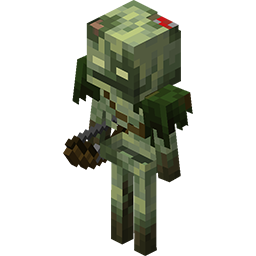
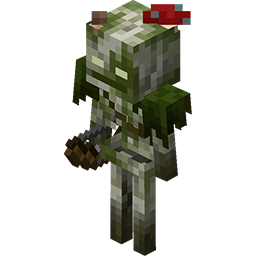
added goals: - dont get any effect - dont get effect - shear bogged - brew potion

Changed region(s): [[0.2812, 0.0, 0.75, 1.0], [0.25, 0.5, 0.3438, 0.625], [0.2812, 0.625, 0.3125, 0.6562]]

diff --git a/src/main/java/net/abrikoos/lockout_bingo/goals/GoalItemRegistry.java b/src/main/java/net/abrikoos/lockout_bingo/goals/GoalItemRegistry.java
@@ -1,12 +1,10 @@
 package net.abrikoos.lockout_bingo.goals;
 
-import net.minecraft.entity.ai.goal.Goal;
+import net.abrikoos.lockout_bingo.LockoutLogger;
 import net.minecraft.util.Identifier;
 
 import java.util.ArrayList;
 import java.util.List;
-
-import net.abrikoos.lockout_bingo.goals.LockoutGoalTag;
 
 import static net.abrikoos.lockout_bingo.goals.LockoutGoalTag.*;
 
@@ -20,6 +18,7 @@ public class GoalItemRegistry {
 
         items.add(new GoalListItem("Opponent obtains crafting table", "An enemy obtains a crafting table", 1, List.of(dont), "no_crafting_table", List.of(Identifier.of("lockout-bingo:goalicon/block/crafting_table.png"))));
         items.add(new GoalListItem("Opponent obtains obsidian", "opponent obtains obsidian", 1, List.of(dont), "no_obsidian", List.of(Identifier.of("lockout-bingo:goalicon/block/obsidian.png"))));
+        items.add(new GoalListItem("Opponent obtains netherrack", "opponent obtains netherrack", 1, List.of(dont), "no_netherrack", List.of(Identifier.of("lockout-bingo:goalicon/block/netherrack.png"))));
         items.add(new GoalListItem("obtain end crystal", "", 3, List.of(nether), "obtain_end_crystal", List.of(Identifier.of("minecraft:textures/item/end_crystal.png"))));
         items.add(new GoalListItem("obtain bell", "", 1, List.of(), "obtain_bell", List.of(Identifier.of("lockout-bingo:goalicon/block/bell.png"))));
         items.add(new GoalListItem("obtain a bottle o enchanting", "obtain bottle o enchanting", 1, List.of(), "obtain_bottle_o_enchanting", List.of(Identifier.of("lockout-bingo:goalicon/item/bottle_o_enchanting.png"))));
@@ -35,7 +34,8 @@ public class GoalItemRegistry {
         items.add(new GoalListItem("obtain crying obsidian", "", 1, List.of(), "obtain_crying_obsidian", List.of(Identifier.of("lockout-bingo:goalicon/block/crying_obsidian.png"))));
         items.add(new GoalListItem("obtain mushroom stem", "", 1, List.of(silk_touch), "obtain_mushroom_stem", List.of(Identifier.of("lockout-bingo:goalicon/block/mushroom_stem.png"))));
         items.add(new GoalListItem("obtain a bubble coral block", "", 1, List.of(silk_touch), "obtain_coral_block", List.of(Identifier.of("lockout-bingo:goalicon/block/bubble_coral_block.png"))));
-//        items.add(new GoalListItem("obtain dragons breath", "", 1, List.of(), "obtain_dragons_breath", List.of(Identifier.of("minecraft:textures/item/dragons_breath.png"))));
+        items.add(new GoalListItem("obtain a heart of the sea", "", 1, List.of(), "obtain_heart_sea", List.of(Identifier.of("lockout-bingo:goalicon/item/heart_of_the_sea.png"))));
+        //        items.add(new GoalListItem("obtain dragons breath", "", 1, List.of(), "obtain_dragons_breath", List.of(Identifier.of("minecraft:textures/item/dragons_breath.png"))));
         items.add(new GoalListItem("obtain TNT", "", 1, List.of(), "obtain_tnt", List.of(Identifier.of("lockout-bingo:goalicon/block/tnt.png"))));
         items.add(new GoalListItem("obtain mud brick wall", "", 1, List.of(), "obtain_mud_brick_wall", List.of(Identifier.of("lockout-bingo:goalicon/block/mud_brick_wall.png"))));
         items.add(new GoalListItem("obtain a calibrated sculk sensor", "", 1, List.of(), "obtain_calibrated_sculk_sensor", List.of(Identifier.of("lockout-bingo:goalicon/block/calibrated_sculk_sensor.png"))));
@@ -43,6 +43,7 @@ public class GoalItemRegistry {
         items.add(new GoalListItem("obtain a cobweb", "", 1, List.of(), "obtain_cobweb", List.of(Identifier.of("minecraft:textures/block/cobweb.png"))));
         items.add(new GoalListItem("obtain goat horn", "", 1, List.of(), "obtain_goat_horn", List.of(Identifier.of("minecraft:textures/item/goat_horn.png"))));
         items.add(new GoalListItem("obtain a nautilus shell", "", 1, List.of(), "obtain_nautilus_shell", List.of(Identifier.of("minecraft:textures/item/nautilus_shell.png"))));
+        items.add(new GoalListItem("obtain exposed cut copper stairs", "", 1, List.of(), "obtain_exposed_copper_stairs", List.of(Identifier.of("lockout-bingo:goalicon/block/exposed_cut_copper_stairs.png"))));
         items.add(new GoalListItem("obtain a copper bulb", "", 1, List.of(), "obtain_copper_bulb", List.of(Identifier.of("lockout-bingo:goalicon/block/lit_copper_bulb.png"))));
         items.add(new GoalListItem("obtain a daylight detector", "", 1, List.of(), "obtain_daylight_detector", List.of(Identifier.of("lockout-bingo:goalicon/block/daylight_detector.png"))));
         items.add(new GoalListItem("obtain a redstone repeater", "", 1, List.of(), "obtain_repeater", List.of(Identifier.of("lockout-bingo:goalicon/block/repeater.png"))));
@@ -59,7 +60,11 @@ public class GoalItemRegistry {
         items.add(new GoalListItem("obtain a full set of iron tools", "", 1, List.of(tools), "obtain_iron_toolset", List.of(Identifier.of("minecraft:textures/item/iron_hoe.png"), Identifier.of("minecraft:textures/item/iron_hoe.png"), Identifier.of("minecraft:textures/item/iron_pickaxe.png"), Identifier.of("minecraft:textures/item/iron_shovel.png"), Identifier.of("minecraft:textures/item/iron_sword.png"))));
         items.add(new GoalListItem("obtain a full set of golden tools", "", 1, List.of(tools), "obtain_golden_toolset", List.of(Identifier.of("minecraft:textures/item/golden_hoe.png"), Identifier.of("minecraft:textures/item/golden_hoe.png"), Identifier.of("minecraft:textures/item/golden_pickaxe.png"), Identifier.of("minecraft:textures/item/golden_shovel.png"), Identifier.of("minecraft:textures/item/golden_sword.png"))));
         items.add(new GoalListItem("obtain a full set of diamond tools", "", 1, List.of(tools), "obtain_diamond_toolset", List.of(Identifier.of("minecraft:textures/item/diamond_hoe.png"), Identifier.of("minecraft:textures/item/diamond_hoe.png"), Identifier.of("minecraft:textures/item/diamond_pickaxe.png"), Identifier.of("minecraft:textures/item/diamond_shovel.png"), Identifier.of("minecraft:textures/item/diamond_sword.png"))));
+        items.add(new GoalListItem("obtain a clock", "", 1, List.of(), "obtain_clock", List.of(Identifier.of("lockout-bingo:goalicon/item/clock.png"))));
 //        items.add(new GoalListItem("obtain a full set of netherite tools", "", 1, List.of(tools), "obtain_netherite_toolset", List.of(Identifier.of("minecraft:textures/item/netherite_hoe.png"), Identifier.of("minecraft:textures/item/netherite_hoe.png"), Identifier.of("minecraft:textures/item/netherite_pickaxe.png"), Identifier.of("minecraft:textures/item/netherite_shovel.png"), Identifier.of("minecraft:textures/item/netherite_sword.png"))));
+
+        // armor goals
+        items.add(new GoalListItem("obtain a piece of chainmail armor", "", 1, List.of(armor), "obtain_chainmail", List.of(Identifier.of("minecraft:textures/item/chainmail_helmet.png"), Identifier.of("minecraft:textures/item/chainmail_chestplate.png"), Identifier.of("minecraft:textures/item/chainmail_leggings.png"), Identifier.of("minecraft:textures/item/chainmail_boots.png"))));
 
         items.add(new GoalListItem("obtain 4 types of seeds", "", 1, List.of(C4), "obtain_all_seeds", List.of(Identifier.of("minecraft:textures/item/wheat_seeds.png"), Identifier.of("minecraft:textures/item/beetroot_seeds.png"), Identifier.of("minecraft:textures/item/melon_seeds.png"), Identifier.of("minecraft:textures/item/pumpkin_seeds.png"), Identifier.of("minecraft:textures/item/torchflower_seeds.png"))));
         items.add(new GoalListItem("obtain 6 types of flowers", "", 1, List.of(C6), "obtain_6_flowers", List.of(Identifier.of("minecraft:textures/block/poppy.png"), Identifier.of("minecraft:textures/block/dandelion.png"), Identifier.of("minecraft:textures/block/blue_orchid.png"), Identifier.of("minecraft:textures/block/allium.png"), Identifier.of("minecraft:textures/block/azure_bluet.png"), Identifier.of("minecraft:textures/block/red_tulip.png"), Identifier.of("minecraft:textures/block/orange_tulip.png"), Identifier.of("minecraft:textures/block/white_tulip.png"), Identifier.of("minecraft:textures/block/pink_tulip.png"), Identifier.of("minecraft:textures/block/oxeye_daisy.png"), Identifier.of("minecraft:textures/block/cornflower.png"), Identifier.of("minecraft:textures/block/lily_of_the_valley.png"), Identifier.of("minecraft:textures/block/wither_rose.png"))));
@@ -67,7 +72,6 @@ public class GoalItemRegistry {
         items.add(new GoalListItem("obtain all saplings", "", 1, List.of(), "obtain_all_saplings", List.of(Identifier.of("minecraft:textures/block/oak_sapling.png"), Identifier.of("minecraft:textures/block/spruce_sapling.png"), Identifier.of("minecraft:textures/block/birch_sapling.png"), Identifier.of("minecraft:textures/block/jungle_sapling.png"), Identifier.of("minecraft:textures/block/acacia_sapling.png"), Identifier.of("minecraft:textures/block/dark_oak_sapling.png"))));
         items.add(new GoalListItem("obtain 2 music disks", "", 1, List.of(C2), "obtain_2_music_disks", List.of(Identifier.of("minecraft:textures/item/music_disc_11.png"), Identifier.of("minecraft:textures/item/music_disc_13.png"), Identifier.of("minecraft:textures/item/music_disc_blocks.png"), Identifier.of("minecraft:textures/item/music_disc_cat.png"), Identifier.of("minecraft:textures/item/music_disc_chirp.png"), Identifier.of("minecraft:textures/item/music_disc_far.png"), Identifier.of("minecraft:textures/item/music_disc_mall.png"), Identifier.of("minecraft:textures/item/music_disc_mellohi.png"), Identifier.of("minecraft:textures/item/music_disc_stal.png"), Identifier.of("minecraft:textures/item/music_disc_strad.png"), Identifier.of("minecraft:textures/item/music_disc_wait.png"), Identifier.of("minecraft:textures/item/music_disc_ward.png"))));
         items.add(new GoalListItem("obtain all types of horse armor", "", 1, List.of(), "obtain_all_harmor", List.of(Identifier.of("minecraft:textures/item/iron_horse_armor.png"), Identifier.of("minecraft:textures/item/golden_horse_armor.png"), Identifier.of("minecraft:textures/item/diamond_horse_armor.png"))));
-
 
         items.add(new GoalListItem("eat 5 unique foods", "", 1, List.of(C5, eat), "eat_5", List.of(Identifier.of("minecraft:textures/item/apple.png"))));
         items.add(new GoalListItem("eat 10 unique foods", "", 1, List.of(C10, eat), "eat_10", List.of(Identifier.of("minecraft:textures/item/apple.png"))));
@@ -119,6 +123,10 @@ public class GoalItemRegistry {
         items.add(new GoalListItem("kill 10 unique mobs", "", 1, List.of(kill, C10), "kill_10", List.of(Identifier.of("lockout-bingo:goalicon/entity/zombie.png"))));
         items.add(new GoalListItem("kill 15 unique mobs", "", 1, List.of(kill, C15), "kill_15", List.of(Identifier.of("lockout-bingo:goalicon/entity/zombie.png"))));
         items.add(new GoalListItem("kill jeb_", "", 1, List.of(kill), "kill_jeb_", List.of(Identifier.of("lockout-bingo:goalicon/entity/jeb.png"))));
+
+        //use entity goals
+        items.add(new GoalListItem("shear a bogged", "", 1, List.of(), "shear_bogged", List.of(Identifier.of("lockout-bingo:goalicon/entity/bogged.png"))));
+
 
         items.add(new GoalListItem("enter the nether", "", 1, List.of(advancement), "nether_adv", List.of(Identifier.of("minecraft:textures/block/nether_portal.png"))));
         items.add(new GoalListItem("enter the end", "", 1, List.of(advancement), "end_adv", List.of(Identifier.of("lockout-bingo:goalicon/block/end_portal_frame.png"))));
@@ -208,6 +216,8 @@ public class GoalItemRegistry {
         items.add(new GoalListItem("get glowing", "", 1, List.of(effect), "effect_glowing", List.of(Identifier.of("lockout-bingo:goalicon/effect/glowing.png"))));
         items.add(new GoalListItem("have 3 active effects at once", "", 1, List.of(effect, C3), "effect_3", List.of(Identifier.of("minecraft:textures/item/milk_bucket.png"))));
         items.add(new GoalListItem("have 6 active effects at once", "", 1, List.of(effect, C6), "effect_6", List.of(Identifier.of("minecraft:textures/item/milk_bucket.png"))));
+        items.add(new GoalListItem("dont get any effects", "", 1, List.of(effect, dont), "dont_effect", List.of(Identifier.of("minecraft:textures/item/milk_bucket.png"))));
+        items.add(new GoalListItem("dont get glowing", "", 1, List.of(effect, dont), "dont_glowing", List.of(Identifier.of("lockout-bingo:goalicon/effect/glowing.png"))));
 
         items.add(new GoalListItem("break 5 pickaxes", "", 1, List.of(C5, broken), "break_5_pickaxes", List.of(Identifier.of("minecraft:textures/item/wooden_pickaxe.png"))));
         items.add(new GoalListItem("get them in a bucket !!", "", 5, List.of(), "get_them_in_a_bucket", List.of(Identifier.of("minecraft:textures/item/pufferfish_bucket.png"))));
@@ -230,6 +240,17 @@ public class GoalItemRegistry {
 
         items.add(new GoalListItem("duplicate a smithing template", "", 1, List.of(C2), "duplicate_smithing_template", List.of(Identifier.of("lockout-bingo:goalicon/item/smithing_templates/silence_template.png")))); // todo nog bij voegen
 
+        items.add(new GoalListItem("sprint 1 km", "", 1, List.of(km1), "sprint_1km", List.of(Identifier.of("lockout-bingo:goalicon/effect/haste.png"))));
+        items.add(new GoalListItem("swim 1 km", "", 1, List.of(km1), "swim_1km", List.of(Identifier.of("lockout-bingo:goalicon/effect/dolphins_grace.png"))));
+
+        // brew goals
+        items.add(new GoalListItem("brew a potion of invisibility", "", 1, List.of(brew), "brew_invis", List.of(Identifier.of("lockout-bingo:goalicon/item/potions/invis.png"))));
+        items.add(new GoalListItem("brew a potion of regeneration", "", 1, List.of(brew), "brew_regen", List.of(Identifier.of("lockout-bingo:goalicon/item/potions/regen.png"))));
+        items.add(new GoalListItem("brew a potion of oozing", "", 1, List.of(brew), "brew_oozing", List.of(Identifier.of("lockout-bingo:goalicon/item/potions/oozing.png"))));
+        items.add(new GoalListItem("brew a potion of weaving", "", 1, List.of(brew), "brew_weaving", List.of(Identifier.of("lockout-bingo:goalicon/item/potions/weaving.png"))));
+        items.add(new GoalListItem("brew a potion of leaping", "", 1, List.of(brew), "brew_leaping", List.of(Identifier.of("lockout-bingo:goalicon/item/potions/leaping.png"))));
+
+        LockoutLogger.log("Registered " + items.size() + " goals");
     }
 
     public static GoalItemRegistry getInstance() {

diff --git a/src/main/java/net/abrikoos/lockout_bingo/goals/GoalFactory.java b/src/main/java/net/abrikoos/lockout_bingo/goals/GoalFactory.java
@@ -4,12 +4,15 @@ import net.abrikoos.lockout_bingo.goals.advancement.GetAdvancementGoal;
 import net.abrikoos.lockout_bingo.goals.advancement.MultiAdvancementGoal;
 import net.abrikoos.lockout_bingo.goals.breed.BreedAnimalGoal;
 import net.abrikoos.lockout_bingo.goals.breed.BreedMultiAnimalsGoal;
+import net.abrikoos.lockout_bingo.goals.brew.BrewPotionGoal;
 import net.abrikoos.lockout_bingo.goals.craft.DuplicateTemplateGoal;
 import net.abrikoos.lockout_bingo.goals.damage.DealDamageGoal;
 import net.abrikoos.lockout_bingo.goals.die.DieFromEntityGoal;
 import net.abrikoos.lockout_bingo.goals.die.DieFromWeaponGoal;
 import net.abrikoos.lockout_bingo.goals.eat.EatFoodGoal;
 import net.abrikoos.lockout_bingo.goals.eat.EatMultiFoodGoal;
+import net.abrikoos.lockout_bingo.goals.effect.DontGetAnyEffects;
+import net.abrikoos.lockout_bingo.goals.effect.DontGetEffectGoal;
 import net.abrikoos.lockout_bingo.goals.effect.GetEffectGoal;
 import net.abrikoos.lockout_bingo.goals.effect.GetMultiEffectGoal;
 import net.abrikoos.lockout_bingo.goals.kill.KillHostileEntityGoal;
@@ -18,6 +21,8 @@ import net.abrikoos.lockout_bingo.goals.kill.MultiKillHostilesGoal;
 import net.abrikoos.lockout_bingo.goals.lvl.ReachLvlGoal;
 import net.abrikoos.lockout_bingo.goals.mine.MineDiamondOre;
 import net.abrikoos.lockout_bingo.goals.mine.MineEmeraldOre;
+import net.abrikoos.lockout_bingo.goals.movement.SprintGoal;
+import net.abrikoos.lockout_bingo.goals.movement.SwimGoal;
 import net.abrikoos.lockout_bingo.goals.obtain.*;
 import net.abrikoos.lockout_bingo.goals.position.FallGoal;
 import net.abrikoos.lockout_bingo.goals.position.ReachBedrockGoal;
@@ -25,21 +30,15 @@ import net.abrikoos.lockout_bingo.goals.position.ReachSkyLimitGoal;
 import net.abrikoos.lockout_bingo.goals.ride.RideHorseGoal;
 import net.abrikoos.lockout_bingo.goals.ride.RidePigGoal;
 import net.abrikoos.lockout_bingo.goals.tools.BreakXPickaxes;
-import net.abrikoos.lockout_bingo.goals.useblock.UseBlockGoal;
-import net.minecraft.block.Blocks;
-import net.minecraft.client.MinecraftClient;
-import net.minecraft.client.texture.TextureManager;
+import net.abrikoos.lockout_bingo.goals.use.UseBlockGoal;
 
+import net.abrikoos.lockout_bingo.goals.use.UseEntityGoal;
 import net.minecraft.entity.EntityType;
-import net.minecraft.entity.damage.DamageType;
 import net.minecraft.entity.damage.DamageTypes;
 import net.minecraft.entity.effect.StatusEffects;
 import net.minecraft.item.Items;
-import net.minecraft.registry.Registries;
-import net.minecraft.screen.LoomScreenHandler;
+import net.minecraft.potion.Potions;
 import net.minecraft.screen.ScreenHandlerType;
-import net.minecraft.screen.SmithingScreenHandler;
-import net.minecraft.server.MinecraftServer;
 import net.minecraft.util.Identifier;
 
 import java.util.List;
@@ -53,6 +52,7 @@ public class GoalFactory {
             // dont obtain
             case "no_crafting_table" -> new DontObtainItemGoal(id, Items.CRAFTING_TABLE);
             case "no_obsidian" -> new DontObtainItemGoal(id, Items.OBSIDIAN);
+            case "no_netherrack" -> new DontObtainItemGoal(id, Items.NETHERRACK);
 
             // obtain goals
             case "obtain_end_crystal" -> new ObtainItemGoal(id, Items.END_CRYSTAL);
@@ -76,8 +76,10 @@ public class GoalFactory {
             case "obtain_blue_ice" -> new ObtainItemGoal(id, Items.BLUE_ICE);
             case "obtain_cobweb" -> new ObtainItemGoal(id, Items.COBWEB);
             case "obtain_goat_horn" -> new ObtainItemGoal(id, Items.GOAT_HORN);
+            case "obtain_heart_sea" -> new ObtainItemGoal(id, Items.HEART_OF_THE_SEA);
             case "obtain_calibrated_sculk_sensor" -> new ObtainItemGoal(id, Items.CALIBRATED_SCULK_SENSOR);
             case "obtain_nautilus_shell" -> new ObtainItemGoal(id, Items.NAUTILUS_SHELL);
+            case "obtain_exposed_copper_stairs" -> new ObtainItemGoal(id, Items.EXPOSED_CUT_COPPER_STAIRS);
             case "obtain_copper_bulb" -> new ObtainItemGoal(id, Items.COPPER_BULB);
             case "obtain_daylight_detector" -> new ObtainItemGoal(id, Items.DAYLIGHT_DETECTOR);
             case "obtain_repeater" -> new ObtainItemGoal(id, Items.REPEATER);
@@ -88,8 +90,9 @@ public class GoalFactory {
             case "obtain_activator_rail" -> new ObtainItemGoal(id, Items.ACTIVATOR_RAIL);
             case "obtain_detector_rail" -> new ObtainItemGoal(id, Items.DETECTOR_RAIL);
             case "obtain_powered_rail" -> new ObtainItemGoal(id, Items.POWERED_RAIL);
+            case "obtain_clock" -> new ObtainItemGoal(id, Items.CLOCK);
 
-            // obtain toolset goals
+            // tool goals
             case "obtain_wooden_toolset" -> new ObtainToolSetGoal(id, "wooden");
             case "obtain_stone_toolset" -> new ObtainToolSetGoal(id, "stone");
             case "obtain_iron_toolset" -> new ObtainToolSetGoal(id, "iron");
@@ -97,6 +100,10 @@ public class GoalFactory {
             case "obtain_diamond_toolset" -> new ObtainToolSetGoal(id, "diamond");
             case "obtain_netherite_toolset" -> new ObtainToolSetGoal(id, "netherite"); // too hard
 
+
+
+            // armor goals
+            case "obtain_chainmail" -> new ObtainXofSetItemsGoal(id, List.of(Items.CHAINMAIL_HELMET, Items.CHAINMAIL_CHESTPLATE, Items.CHAINMAIL_LEGGINGS, Items.CHAINMAIL_BOOTS), 1);
 
             case "obtain_all_seeds" -> new ObtainEverySeedGoal(id);
             case "obtain_6_flowers" -> new ObtainXFlowers(id, 6);
@@ -158,6 +165,9 @@ public class GoalFactory {
             case "kill_10" -> new MultiKillHostilesGoal(id, 10);
             case "kill_15" -> new MultiKillHostilesGoal(id, 15);
             case "kill_jeb_" -> new KillJeb(id);
+
+            // use entity goals
+            case "shear_bogged" -> new UseEntityGoal(id, EntityType.BOGGED, Items.SHEARS);
 
             // advancement goals
             case "nether_adv" -> new GetAdvancementGoal(id, Identifier.of("minecraft", "nether/root"));
@@ -249,6 +259,8 @@ public class GoalFactory {
             case "effect_glowing" -> new GetEffectGoal(id, StatusEffects.GLOWING);
             case "effect_3" -> new GetMultiEffectGoal(id, 3);
             case "effect_6" -> new GetMultiEffectGoal(id, 6);
+            case "dont_effect" -> new DontGetAnyEffects(id);
+            case "dont_glowing" -> new DontGetEffectGoal(id, StatusEffects.GLOWING);
 
             case "get_them_in_a_bucket" -> new ObtainXofSetItemsGoal(id, List.of(Items.COD_BUCKET, Items.SALMON_BUCKET, Items.PUFFERFISH_BUCKET, Items.TROPICAL_FISH_BUCKET, Items.AXOLOTL_BUCKET, Items.TADPOLE_BUCKET), 6);
 
@@ -267,6 +279,16 @@ public class GoalFactory {
             case "64_cyan_wool" -> new ObtainMultiCountItemGoal(id, Items.CYAN_WOOL, 64);
 
             case "duplicate_smithing_template" -> new DuplicateTemplateGoal(id);
+
+            case "sprint_1km" -> new SprintGoal(id, 100000);
+            case "swim_1km" -> new SwimGoal(id, 100000);
+
+            // brew goals
+            case "brew_regen" -> new BrewPotionGoal(id, Potions.REGENERATION);
+            case "brew_weaving" -> new BrewPotionGoal(id, Potions.WEAVING);
+            case "brew_oozing" -> new BrewPotionGoal(id, Potions.OOZING);
+            case "brew_invis" -> new BrewPotionGoal(id, Potions.INVISIBILITY);
+            case "brew_leaping" -> new BrewPotionGoal(id, Potions.LEAPING);
 
             default ->
 

diff --git a/src/main/java/net/abrikoos/lockout_bingo/goals/brew/BrewPotionGoal.java b/src/main/java/net/abrikoos/lockout_bingo/goals/brew/BrewPotionGoal.java
@@ -1,4 +1,42 @@
 package net.abrikoos.lockout_bingo.goals.brew;
 
-public class BrewPotionGoal {
+import net.abrikoos.lockout_bingo.LockoutLogger;
+import net.abrikoos.lockout_bingo.goals.LockoutGoal;
+import net.abrikoos.lockout_bingo.listeners.ScreenSlotClickListener;
+import net.minecraft.entity.player.PlayerEntity;
+import net.minecraft.item.ItemStack;
+import net.minecraft.item.PotionItem;
+import net.minecraft.potion.Potion;
+import net.minecraft.registry.Registries;
+import net.minecraft.registry.entry.RegistryEntry;
+import net.minecraft.screen.ScreenHandlerType;
+import net.minecraft.screen.slot.Slot;
+import net.minecraft.screen.slot.SlotActionType;
+
+// todo not working
+public class BrewPotionGoal extends LockoutGoal {
+
+    RegistryEntry<Potion> potion;
+
+    public BrewPotionGoal(int id, RegistryEntry<Potion> potion) {
+        super(id);
+        this.potion = potion;
+        ScreenSlotClickListener.subscribe(this::validateProgress);
+    }
+
+    private void validateProgress(int slotIndex, int button, SlotActionType actionType, PlayerEntity player, ScreenHandlerType<?> type, Slot slot) {
+        if (completed != null) { return; }
+        if (type == ScreenHandlerType.BREWING_STAND && actionType == SlotActionType.PICKUP) {
+            if (slotIndex == 0 || slotIndex == 1 || slotIndex == 2) {
+                PotionItem potionItem = (PotionItem) slot.getStack().getItem();
+                String[] x = potionItem.getTranslationKey(slot.getStack()).split("\\.");
+                String[] y = this.potion.getIdAsString().split(":");
+                if (y[1].equals(x[x.length - 1])) {
+                    this.completed(player);
+                }
+            }
+        }
+    }
+
+
 }

diff --git a/src/main/java/net/abrikoos/lockout_bingo/goals/use/UseEntityGoal.java b/src/main/java/net/abrikoos/lockout_bingo/goals/use/UseEntityGoal.java
@@ -1,0 +1,37 @@
+package net.abrikoos.lockout_bingo.goals.use;
+
+import net.abrikoos.lockout_bingo.goals.LockoutGoal;
+import net.fabricmc.fabric.api.event.player.UseEntityCallback;
+import net.minecraft.entity.Entity;
+import net.minecraft.entity.EntityType;
+import net.minecraft.entity.LivingEntity;
+import net.minecraft.entity.passive.SheepEntity;
+import net.minecraft.entity.player.PlayerEntity;
+import net.minecraft.item.Item;
+import net.minecraft.item.Items;
+import net.minecraft.util.ActionResult;
+import net.minecraft.util.Hand;
+import net.minecraft.util.hit.EntityHitResult;
+import net.minecraft.world.World;
+
+public class UseEntityGoal extends LockoutGoal {
+
+    EntityType<?> entityType;
+    Item item;
+
+    public UseEntityGoal(int id, EntityType<?> entityType, Item item) {
+        super(id);
+        this.entityType = entityType;
+        this.item = item;
+        UseEntityCallback.EVENT.register(this::checkCompletion);
+    }
+
+    private ActionResult checkCompletion(PlayerEntity player, World world, Hand hand, Entity entity, EntityHitResult entityHitResult) {
+        if (entityType == entity.getType() && player.getStackInHand(hand).getItem().equals(item)) {
+            this.completed(player);
+        }
+        return ActionResult.PASS;
+    }
+
+
+}

diff --git a/src/main/java/net/abrikoos/lockout_bingo/goals/use/UseBlockGoal.java b/src/main/java/net/abrikoos/lockout_bingo/goals/use/UseBlockGoal.java
@@ -1,11 +1,8 @@
-package net.abrikoos.lockout_bingo.goals.useblock;
+package net.abrikoos.lockout_bingo.goals.use;
 
 import net.abrikoos.lockout_bingo.goals.LockoutGoal;
-import net.abrikoos.lockout_bingo.goals.LockoutGoalEvent;
 import net.abrikoos.lockout_bingo.listeners.ScreenSlotClickListener;
-import net.minecraft.client.MinecraftClient;
 import net.minecraft.entity.player.PlayerEntity;
-import net.minecraft.inventory.Inventory;
 import net.minecraft.screen.ScreenHandlerType;
 import net.minecraft.screen.slot.Slot;
 import net.minecraft.screen.slot.SlotActionType;

diff --git a/src/main/java/net/abrikoos/lockout_bingo/goals/effect/DontGetEffectGoal.java b/src/main/java/net/abrikoos/lockout_bingo/goals/effect/DontGetEffectGoal.java
@@ -1,0 +1,15 @@
+package net.abrikoos.lockout_bingo.goals.effect;
+
+import net.minecraft.entity.effect.StatusEffect;
+import net.minecraft.registry.entry.RegistryEntry;
+
+public class DontGetEffectGoal extends GetEffectGoal{
+    @Override
+    public String recipiant() {
+        return "enemy";
+    }
+
+    public DontGetEffectGoal(int id, RegistryEntry<StatusEffect> effect) {
+        super(id, effect);
+    }
+}

diff --git a/src/main/java/net/abrikoos/lockout_bingo/goals/GoalListItem.java b/src/main/java/net/abrikoos/lockout_bingo/goals/GoalListItem.java
@@ -141,6 +141,9 @@ public class GoalListItem {
             else if (tag == LockoutGoalTag.C300) {
                 ctx.drawText(textRenderer,"300", x2-1-(x2-x1)/3, y2 -(x2-x1)/3 -1, 0xffffffff, true);
             }
+            else if (tag == LockoutGoalTag.km1) {
+                ctx.drawText(textRenderer,"1km", x2-2-(x2-x1)/3, y2 -(x2-x1)/3 -1, 0xffffffff, true);
+            }
         }
     }
 

diff --git a/src/main/java/net/abrikoos/lockout_bingo/goals/effect/DontGetAnyEffects.java b/src/main/java/net/abrikoos/lockout_bingo/goals/effect/DontGetAnyEffects.java
@@ -1,0 +1,16 @@
+package net.abrikoos.lockout_bingo.goals.effect;
+
+import net.minecraft.entity.effect.StatusEffect;
+import net.minecraft.registry.entry.RegistryEntry;
+
+public class DontGetAnyEffects extends GetMultiEffectGoal{
+
+    public DontGetAnyEffects(int id) {
+        super(id, 1);
+    }
+
+    @Override
+    public String recipiant() {
+        return "enemy";
+    }
+}

diff --git a/src/main/java/net/abrikoos/lockout_bingo/goals/LockoutGoalTag.java b/src/main/java/net/abrikoos/lockout_bingo/goals/LockoutGoalTag.java
@@ -41,4 +41,5 @@ public enum LockoutGoalTag {
     broken, // cant use break so ...
     biomes,
     wool,
+    km1,
 }

diff --git a/src/main/java/net/abrikoos/lockout_bingo/goals/use/UseBlockOnGoal.java b/src/main/java/net/abrikoos/lockout_bingo/goals/use/UseBlockOnGoal.java
@@ -1,0 +1,4 @@
+package net.abrikoos.lockout_bingo.goals.use;
+
+public class UseBlockOnGoal {
+}
